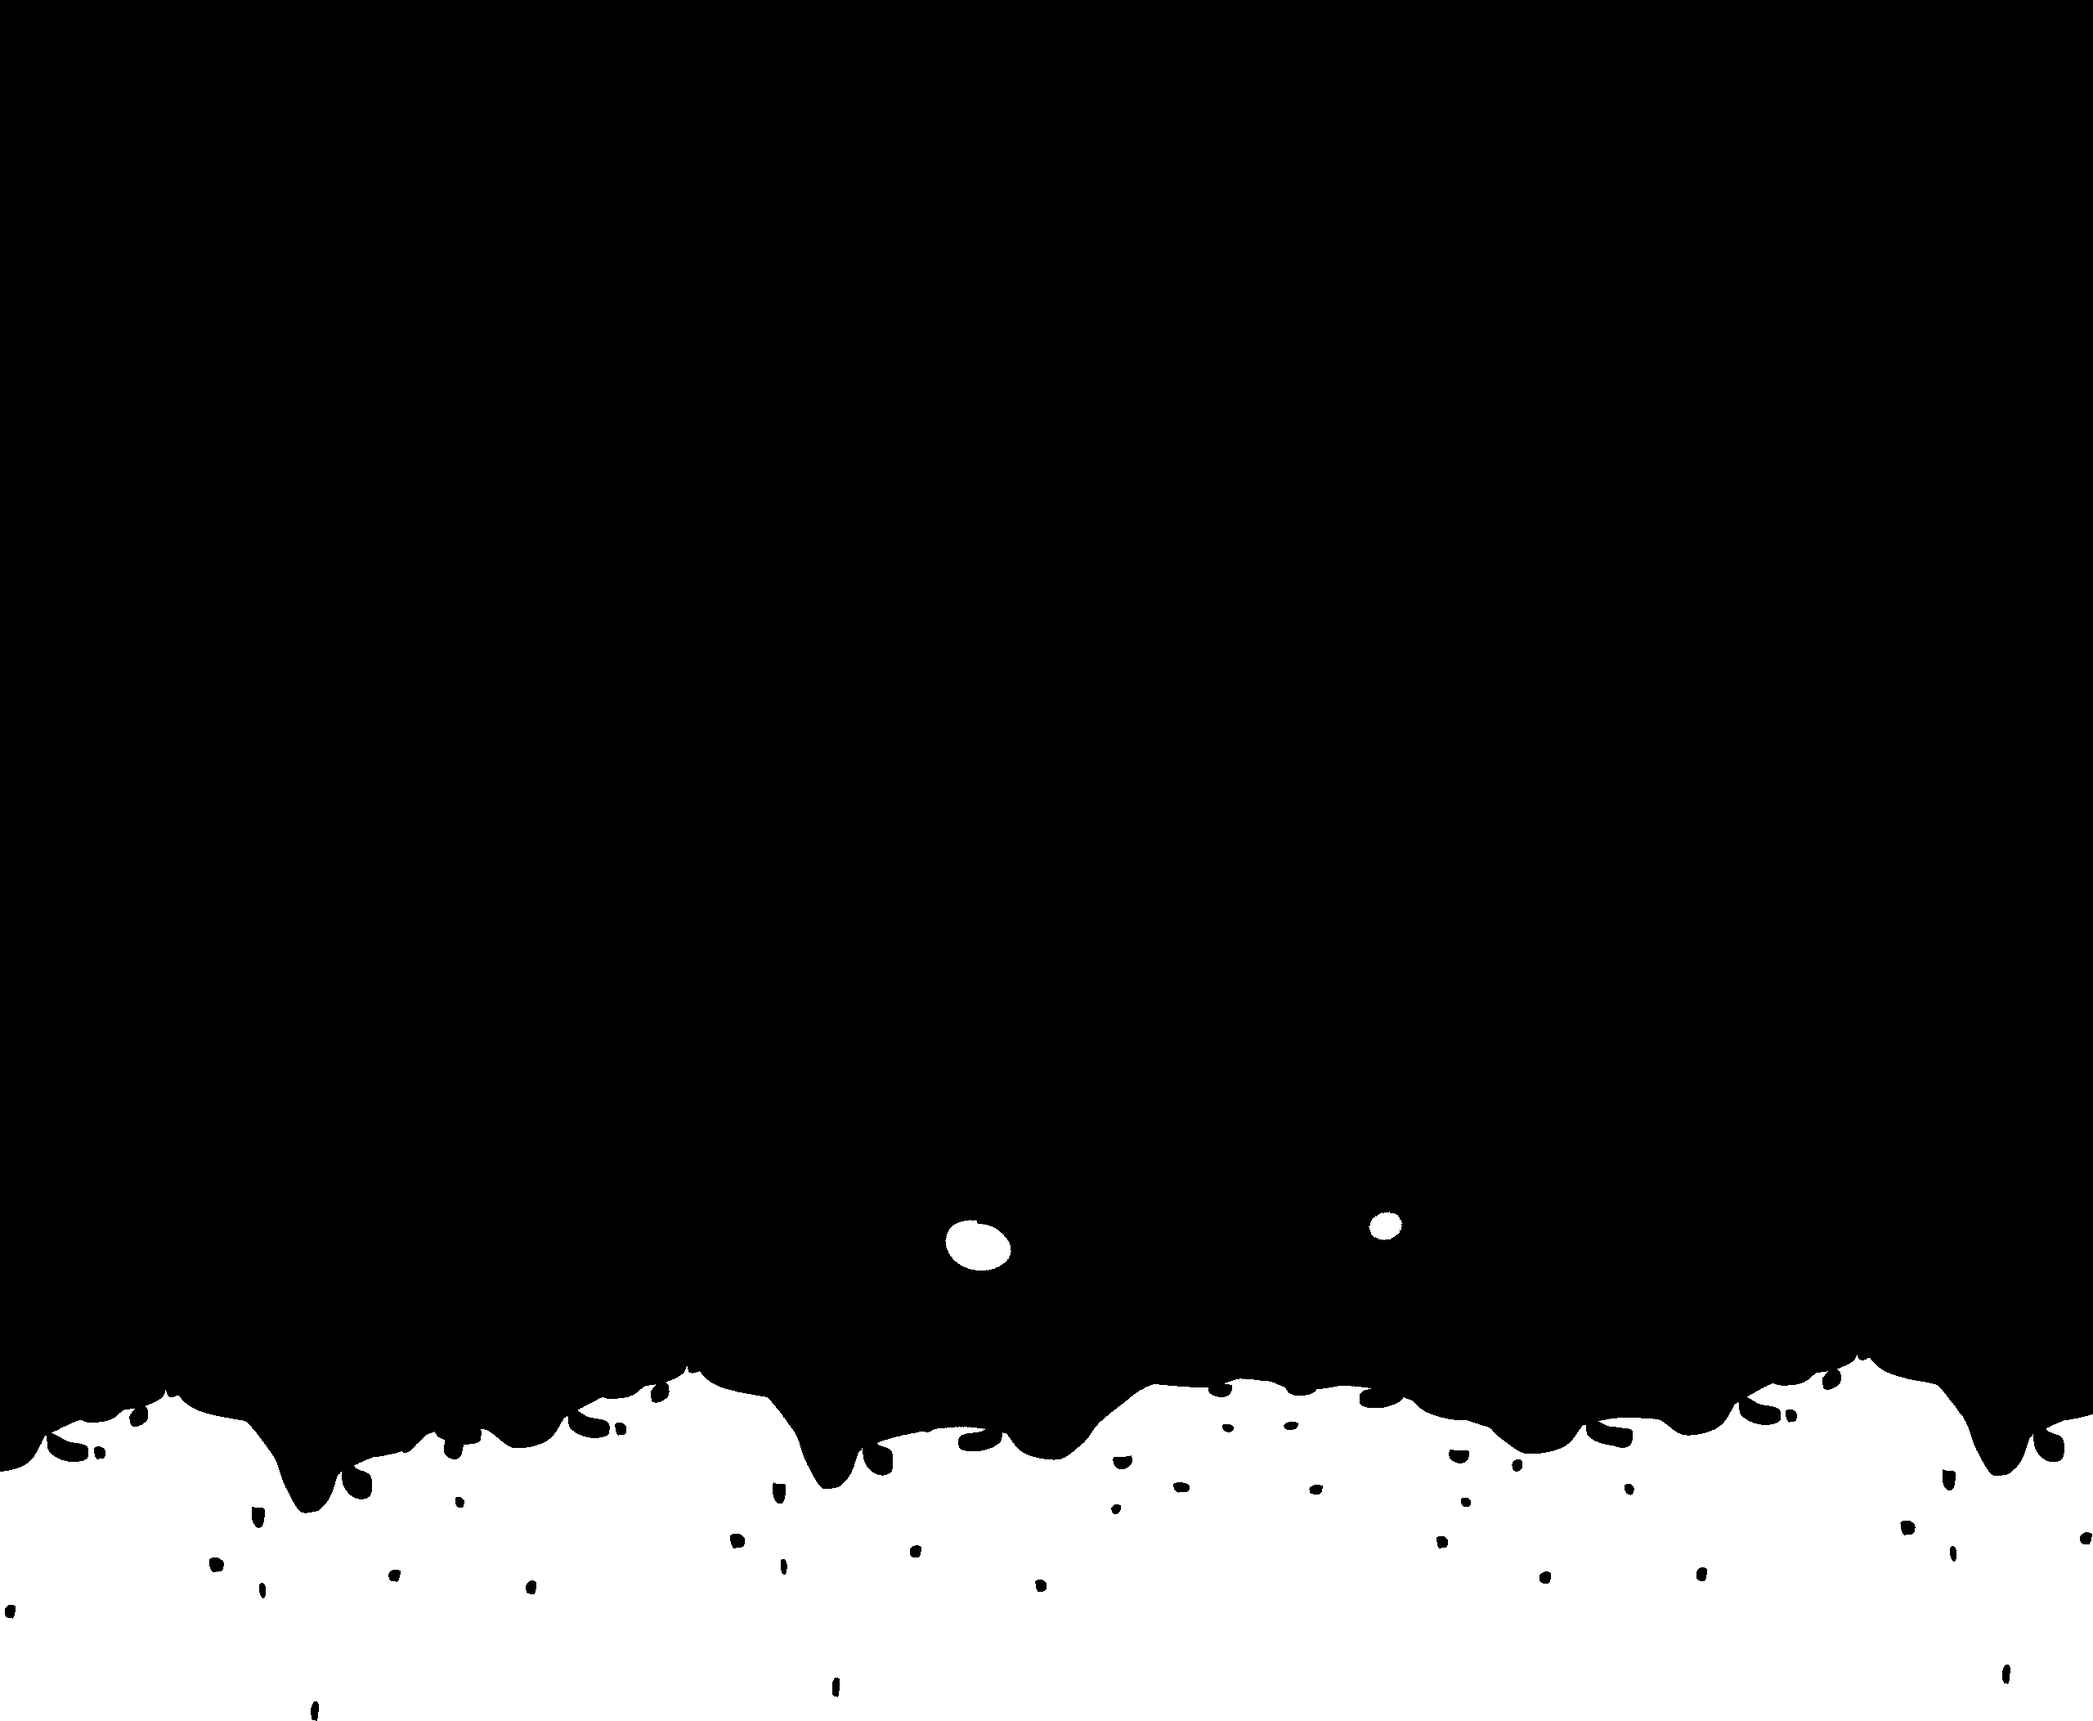
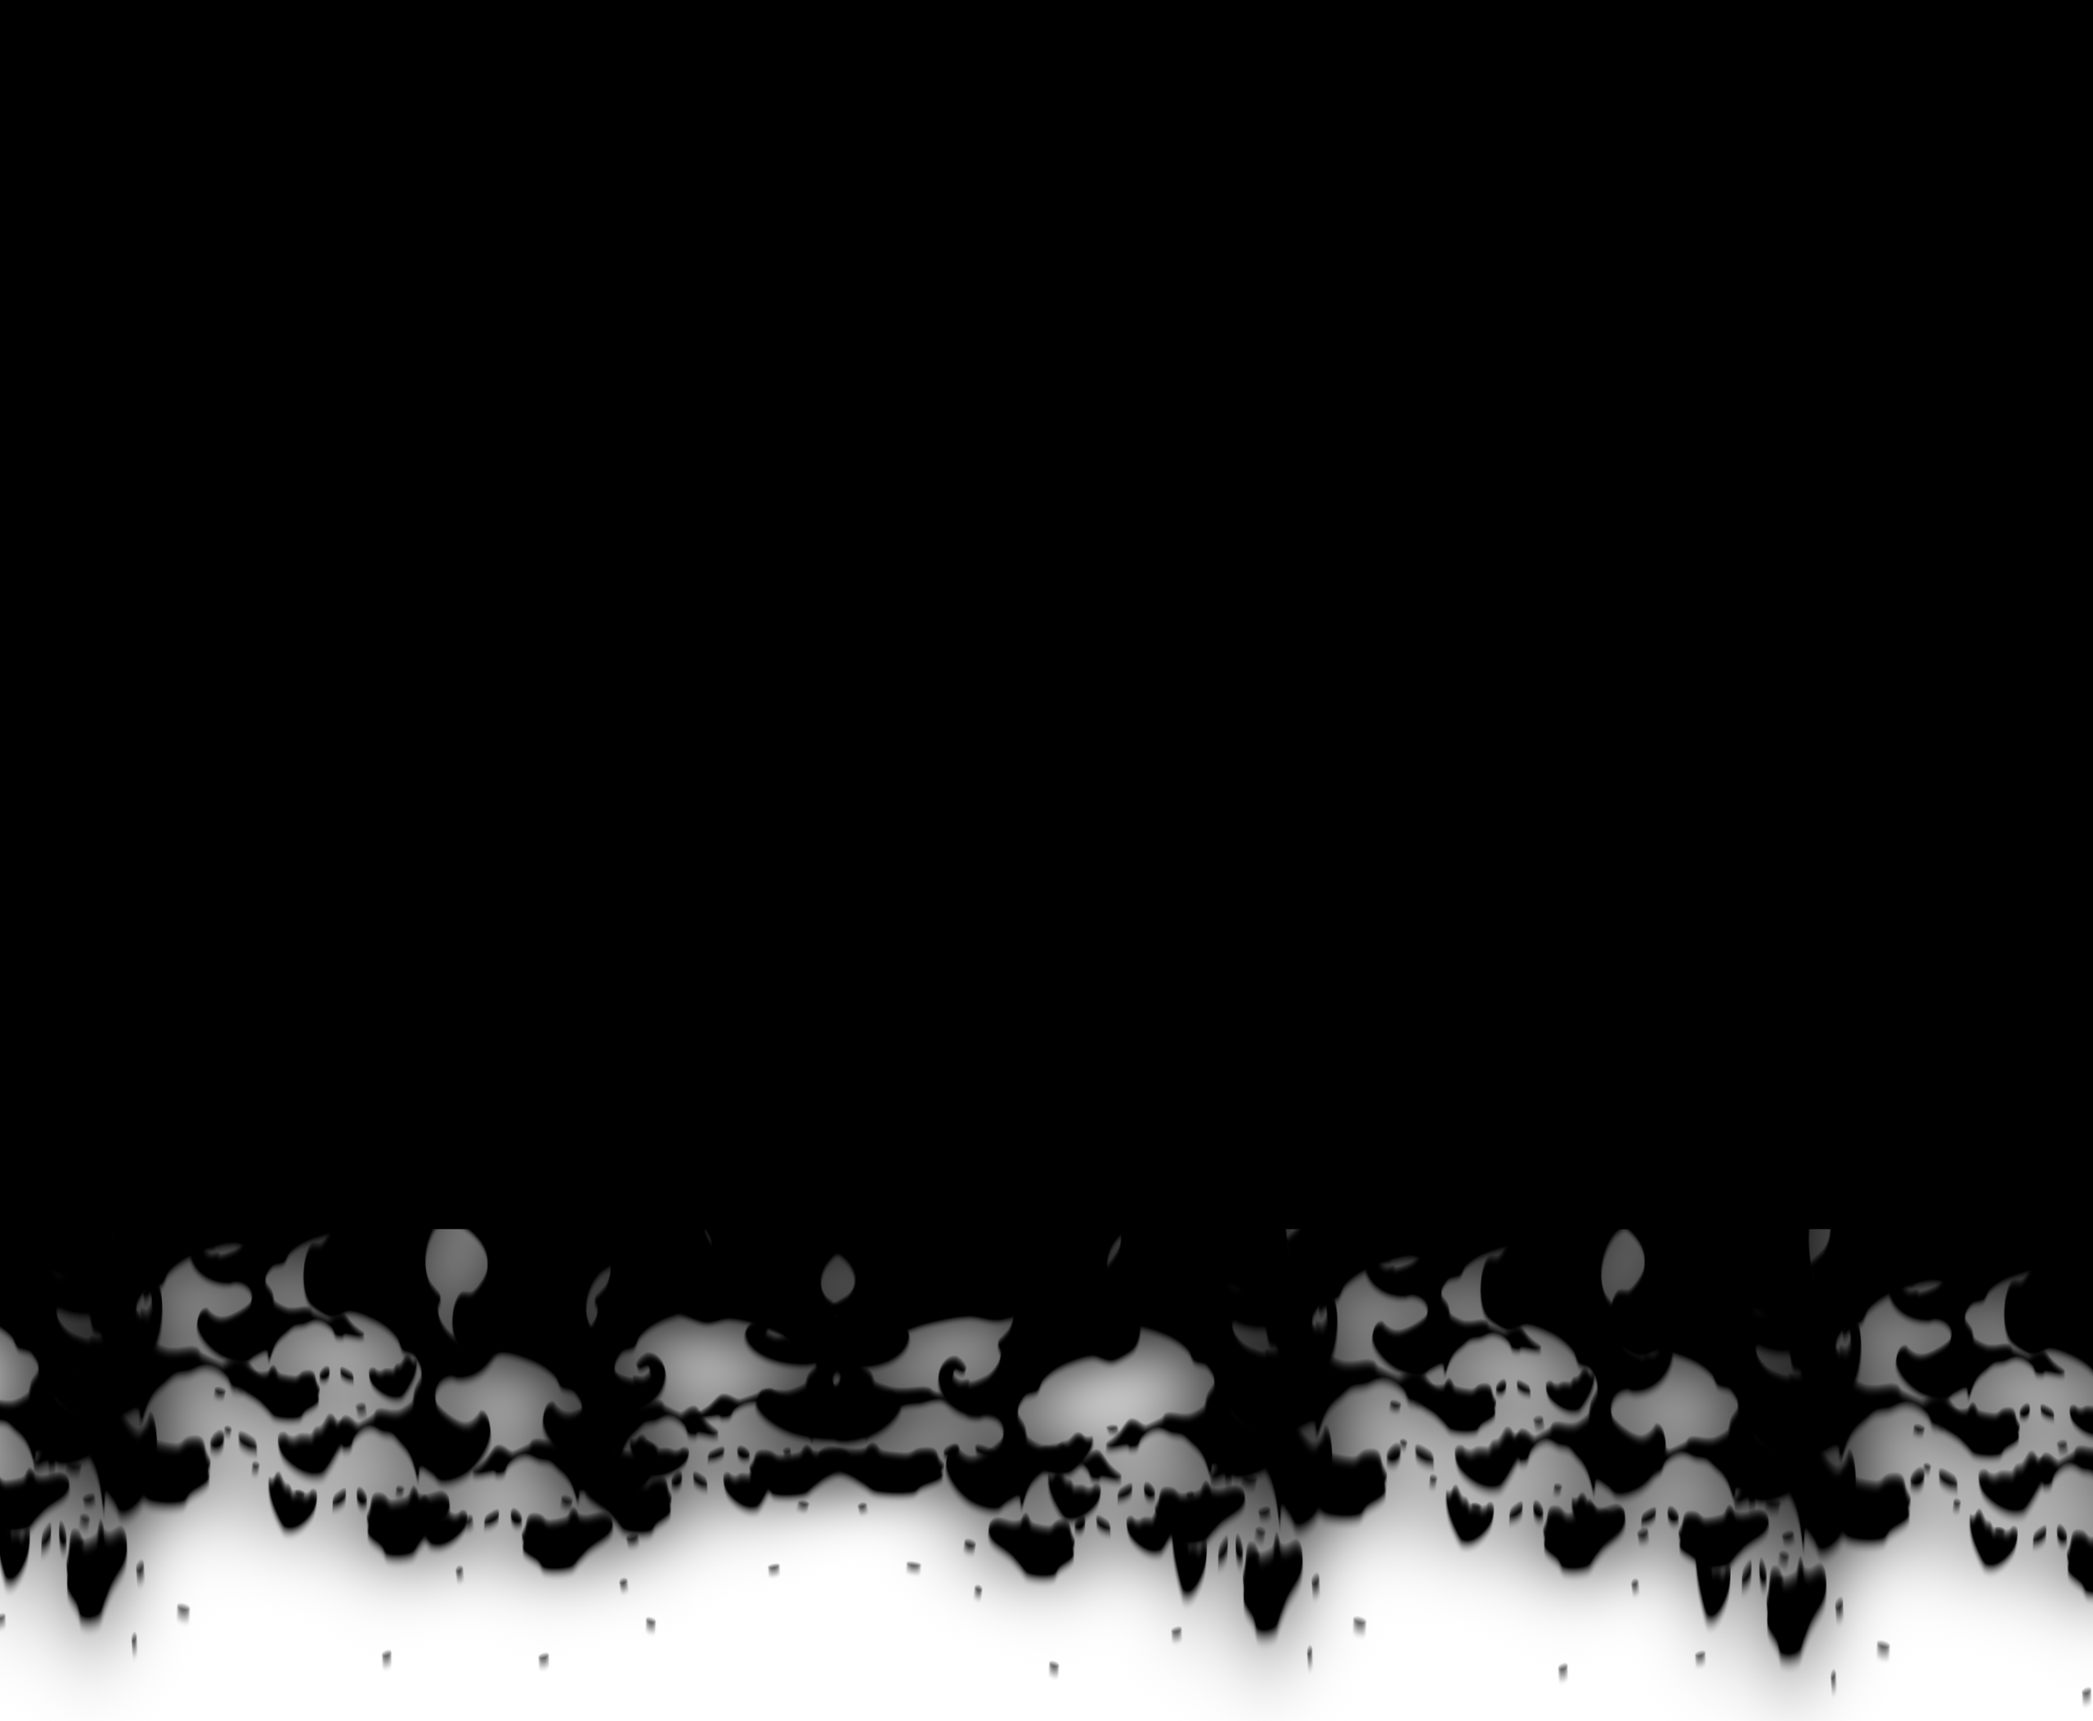
화면 전환 이미지 변경. 이 커밋 이후론 에셋 매니저 변환 끝날 때까지 FileHandler 사용 불가

Changed region(s): [[0.0, 0.7102, 1.0, 0.9881], [0.8438, 0.7102, 0.875, 0.7411]]

diff --git a/core/src/com/fastcat/labyrintale/screens/library/LibraryButton.java b/core/src/com/fastcat/labyrintale/screens/library/LibraryButton.java
@@ -32,7 +32,7 @@ public class LibraryButton extends AbstractUI {
     protected void onClick() {
         if (lib == Library.RUNS) {
             SoundHandler.playSfx("CHANGE");
-            Labyrintale.fadeOutAndChangeScreen(new RunViewScreen(), Labyrintale.FadeType.VERTICAL, 0.3f);
+            Labyrintale.fadeOutAndChangeScreen(new RunViewScreen(), Labyrintale.FadeType.VERTICAL, 0.5f);
         } else if (lib == Library.DICT) Labyrintale.addTempScreen(Labyrintale.dictionary);
         else if (lib == Library.ACHVS) Labyrintale.addTempScreen(Labyrintale.achievement);
     }

diff --git a/core/src/com/fastcat/labyrintale/screens/mainmenu/LibButton.java b/core/src/com/fastcat/labyrintale/screens/mainmenu/LibButton.java
@@ -51,7 +51,7 @@ public class LibButton extends AbstractUI {
     @Override
     protected void onClick() {
         SoundHandler.playSfx("CHANGE");
-        Labyrintale.fadeOutAndChangeScreen(Labyrintale.libScreen, Labyrintale.FadeType.VERTICAL, 0.3f);
+        Labyrintale.fadeOutAndChangeScreen(Labyrintale.libScreen, Labyrintale.FadeType.VERTICAL, 0.5f);
     }
 
     @Override

diff --git a/core/src/com/fastcat/labyrintale/screens/runview/BackToMainRunButton.java b/core/src/com/fastcat/labyrintale/screens/runview/BackToMainRunButton.java
@@ -52,6 +52,6 @@ public class BackToMainRunButton extends AbstractUI {
     @Override
     protected void onClick() {
         SoundHandler.playSfx("CHANGE");
-        Labyrintale.fadeOutAndChangeScreen(Labyrintale.libScreen, Labyrintale.FadeType.VERTICAL, 0.3f);
+        Labyrintale.fadeOutAndChangeScreen(Labyrintale.libScreen, Labyrintale.FadeType.VERTICAL, 0.5f);
     }
 }

diff --git a/core/src/com/fastcat/labyrintale/Labyrintale.java b/core/src/com/fastcat/labyrintale/Labyrintale.java
@@ -4,6 +4,7 @@ import com.badlogic.gdx.*;
 import com.badlogic.gdx.graphics.Color;
 import com.badlogic.gdx.graphics.OrthographicCamera;
 import com.badlogic.gdx.graphics.Pixmap;
+import com.badlogic.gdx.graphics.Texture;
 import com.badlogic.gdx.graphics.g2d.PolygonSpriteBatch;
 import com.badlogic.gdx.graphics.g2d.Sprite;
 import com.badlogic.gdx.graphics.g2d.SpriteBatch;

diff --git a/core/src/com/fastcat/labyrintale/screens/mainmenu/GameStartButton.java b/core/src/com/fastcat/labyrintale/screens/mainmenu/GameStartButton.java
@@ -52,7 +52,7 @@ public class GameStartButton extends AbstractUI {
     @Override
     protected void onClick() {
         SoundHandler.playSfx("CHANGE");
-        fadeOutAndChangeScreen(diffScreen, FadeType.VERTICAL, 0.3f);
+        fadeOutAndChangeScreen(diffScreen, FadeType.VERTICAL, 0.5f);
     }
 
     @Override

diff --git a/core/src/com/fastcat/labyrintale/screens/difficulty/BackButton.java b/core/src/com/fastcat/labyrintale/screens/difficulty/BackButton.java
@@ -51,6 +51,6 @@ public class BackButton extends AbstractUI {
     @Override
     protected void onClick() {
         SoundHandler.playSfx("CHANGE");
-        fadeOutAndChangeScreen(mainMenuScreen, FadeType.VERTICAL, 0.3f);
+        fadeOutAndChangeScreen(mainMenuScreen, FadeType.VERTICAL, 0.5f);
     }
 }

diff --git a/core/src/com/fastcat/labyrintale/screens/charselect/BackButton.java b/core/src/com/fastcat/labyrintale/screens/charselect/BackButton.java
@@ -51,6 +51,6 @@ public class BackButton extends AbstractUI {
 
     @Override
     protected void onClick() {
-        Labyrintale.fadeOutAndChangeScreen(diffScreen, 0.75f);
+        Labyrintale.fadeOutAndChangeScreen(diffScreen, 0.5f);
     }
 }
